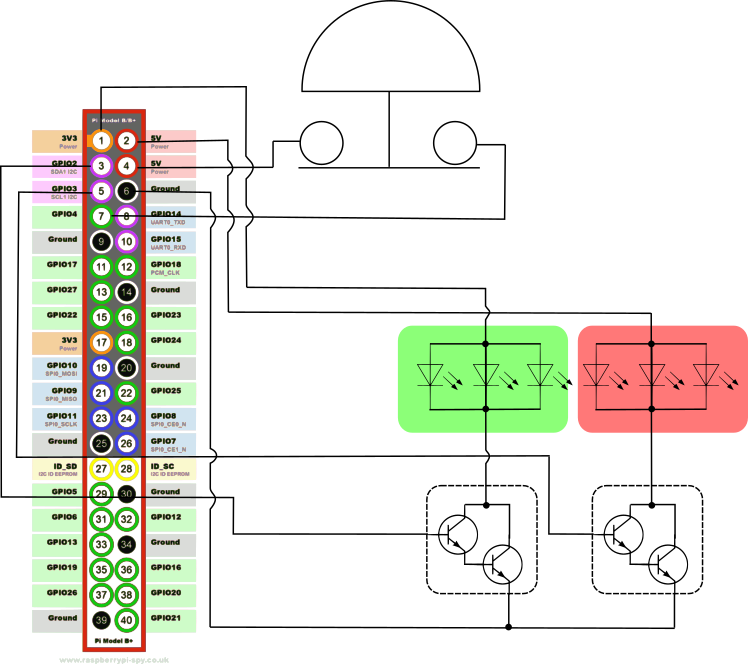
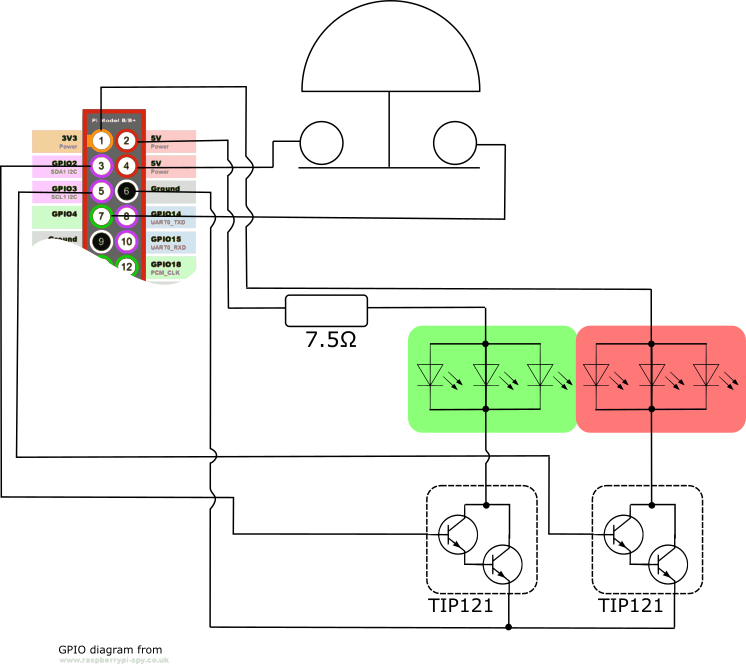
Better schematic and add a parts list

diff --git a/README.md b/README.md
@@ -10,19 +10,45 @@ My family and I really enjoyed "The Button" on BBC One this spring and we wanted
 
 ## Building The Button
 
-I have designed two different models of The Button. The first is a fully featured button with integrated screen and the second is a simpler, cheaper to build model that uses a TV to display the challenges. This video shows both buttons:
+I have designed two different models of The Button. The first is a fully featured button with an integrated screen and the second is a simpler, cheaper to build model that uses a TV to display the challenges. This video shows both buttons:
 
 [![My Model of BBC One's The Button](https://img.youtube.com/vi/vgZ8wvUb_S4/0.jpg)](https://www.youtube.com/watch?v=vgZ8wvUb_S4 "My Model of BBC One's The Button")
 
+### Equipment used
+
 If you want to make your own button you will need access to:
 * A Laser cutter
-* A 3D printer
+* A 3D printer (ideally one capable of printing ABS)
 * A Vacuum-forming machine
 * Basic soldering equipment
 * A belt or disk sander or a dremmel or similar
+* Glue gun
 
 I am a member of [Cambridge Makespace](http://makespace.org/) where I was able to use all of the above equipment to make my buttons.
 
+### Parts list
+* 2x 600x400x3mm laser plywood (1 for mini button)
+* ABS filament for your 3D printer (for the dome former)
+* PLA filament for your 3D printer (for the other parts - can also use ABS)
+* 1x Raspberry Pi
+* 1x A4 1mm Matt White Styrene sheet
+* 1x Raspberry Pi 7" screen (not for mini button)
+* 1x Raspberry Pi camera module (optional for big button and not required for mini button)
+* 4x M3x12mm screws
+* 4x M3 nuts (only for mini button)
+* A piece of foam approx 45mm thick and 75mm radius
+* Wires
+* Veroboard
+* 30x very bright red LEDs (10 for mini button)
+* 30x very bright green LEDs (10 for mini button)
+* 1x 7.5Ω resistor
+* 2x TIP121 darlington pair transistors
+* Wood glue
+* Glue gun glue
+* Clear glue or superglue
+* Double-sided tape (not for mini button)
+
+### How to
 Here is a step by step guide to building the smaller button:
 
 <div align="center"></div>
@@ -31,6 +57,8 @@ And this video shows the constructions details that differ for the full button:
 
 [![Making The Mini Button](https://img.youtube.com/vi/txHKabrpCIU/0.jpg)](https://www.youtube.com/watch?v=txHKabrpCIU "Making The Mini Button")
 
+
+### Designs
 The design files are available on thingiverse:
 * The Button
 * Mini Button
@@ -43,7 +71,7 @@ Here is the wiring diagram, in reality there were more LEDs than are shown:
 
 ![Wiring Diagram](docs/schematic.png)
 
-## Installation Instructions
+### Software Installation Instructions
 
 See this video for a walk through of the instructions below:
 
